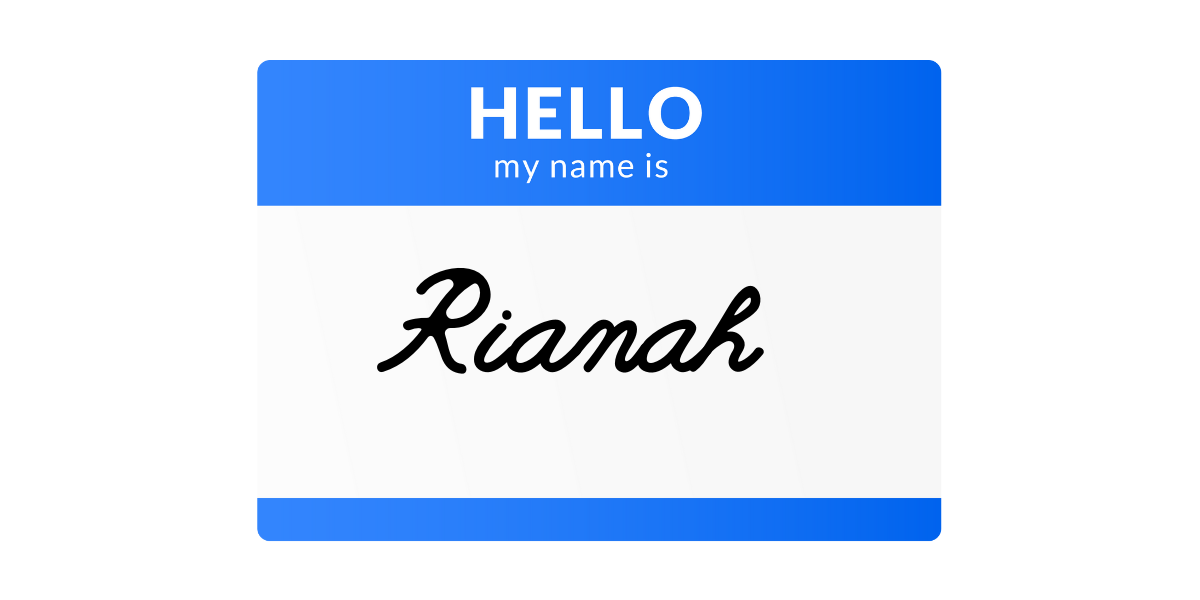
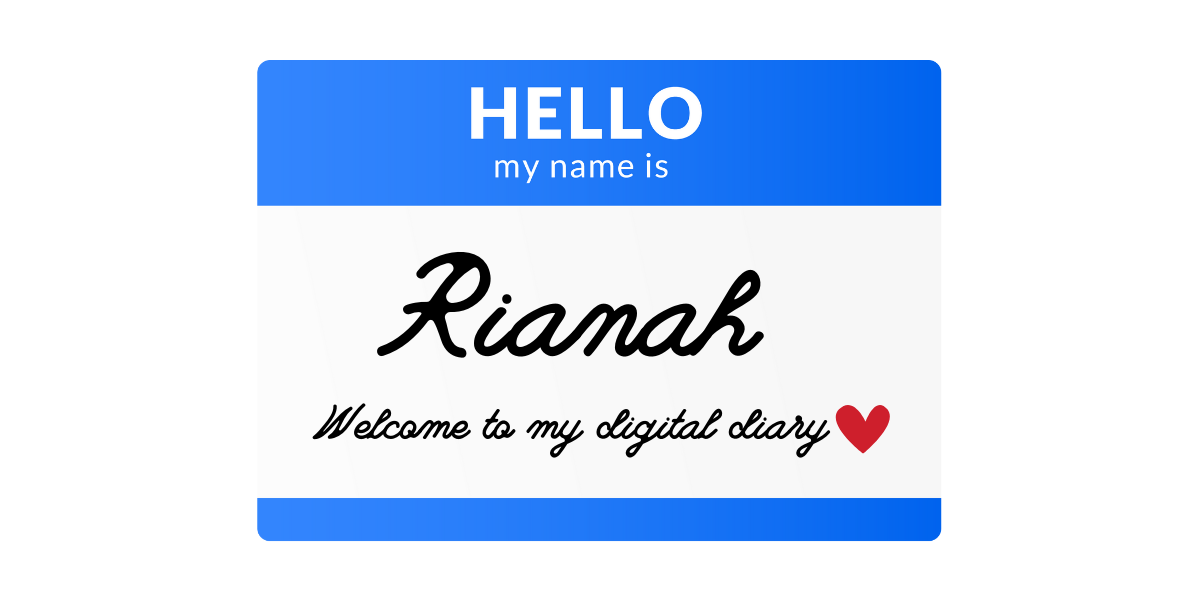
updated images
new hello png
new background (transparency)
added to-do list img

Changed region(s): [[0.3083, 0.42, 0.6475, 0.63], [0.2467, 0.66, 0.74, 0.78]]

diff --git a/thefeed/css/thefeed.css b/thefeed/css/thefeed.css
@@ -1,6 +1,6 @@
 body {
     background-color: rgb(242, 239, 229); 
-    background-image: url('../../img/new_backgroundimg.png');
+    background-image: url('../../img/new_backgroundimg1.png');
     background-size: cover; 
     background-position: center center; 
     background-attachment: fixed;
@@ -31,13 +31,25 @@ header h1 {
 }
 
 header img {
-    width: 400px; 
+    width: 500px; 
     height: auto; 
-    transform: rotate(-15deg); 
+    transform: rotate(15deg); 
     position: absolute; 
-    top: 110px; 
-    right: 85px; 
+    top: 50px; 
+    right: 50px; 
     z-index: 0; 
+}
+
+header .to-do-list {
+    width: 350px;
+    height:auto;
+    position: absolute;
+    transform: rotate(-25deg);
+    top: 400px;
+    left: -35px;
+    z-index: 2;
+
+
 }
 
 header a {
@@ -145,7 +157,7 @@ header a {
     z-index: 2; /* Ensure the sun image is above the text box */
 }
 
-.image-text .love-image {
+.image-text .love-image { 
     position: absolute; /* Position absolutely inside the .image-text container */
     top: 250px; /* Move the sun image above the text box */
     right: -225px; /* Adjust this value to center or move the sun left or right */
@@ -163,7 +175,7 @@ header a {
     z-index: 2; /* Ensure the sun image is above the text box */
 }
 
-.image-text .book-image {
+.image-text .book-image { /* weird anchor */
     position: absolute; /* Position absolutely inside the .image-text container */
     top: 350px; /* Move the sun image above the text box */
     right: -200px; /* Adjust this value to center or move the sun left or right */
@@ -172,7 +184,7 @@ header a {
     z-index: 2; /* Ensure the sun image is above the text box */
 }
 
-.image-text .research-image {
+.image-text .research-image { /* weird anchor */
     position: absolute; /* Position absolutely inside the .image-text container */
     top: 600px; /* Move the sun image above the text box */
     right: 800px; /* Adjust this value to center or move the sun left or right */
@@ -181,3 +193,4 @@ header a {
     transform: rotate(15deg);
     z-index: 2; /* Ensure the sun image is above the text box */
 }
+

diff --git a/thefeed/thefeed.html b/thefeed/thefeed.html
@@ -16,6 +16,7 @@
         <a href="../index.html"><h1>THE FEED</h1></a>
     </div>
     <img src="../img/hello.png" alt="Image next to text">
+    <img class="to-do-list" src="../img/Ri’s To-Do List.png">
 </header>
 
    <center> 
@@ -64,7 +65,8 @@
          </div>
         
     <div class="image-text">
-                <img src="../img/galentines.png" alt="Picture of people sitting on the floor with craft supplies to make crowns.">
+        <!-- Img not showing on Github server-->
+                <img src="../img/galentines.png" alt="Picture of people sitting on the floor with craft supplies to make crowns."> 
                 <p>Went over to Syds house for Galentines! I took a picture of us making paper crowns!</p>
                 <img class="love-image" src="../img/stickers/iloveyou.png" alt="love Image">
             </div>
@@ -76,6 +78,7 @@
             </div>
     
      <div class="image-text">
+        <!-- Img not showing on Github server-->
                 <img src="../img/homework.png" alt="Photo of my laptop">
                 <p>I got on my laptop to do my Italian homework.</p>
                 <img class="book-image" src="../img/stickers/book.png" alt="book Image">
@@ -83,13 +86,13 @@
             </div>
         
     <div class="image-text">
+        <!-- Img not showing on Github server-->
                 <img src="../img/sleep.png" alt="Screenshot of iphone, time is 2AM, the song playing is about you by the 1975">
                 <p>I finished my work at 2am and went to bed listening to music!</p>
-                
             </div>
        
      
-</center>    
+        </center>    
             
         </div>
         </body>
